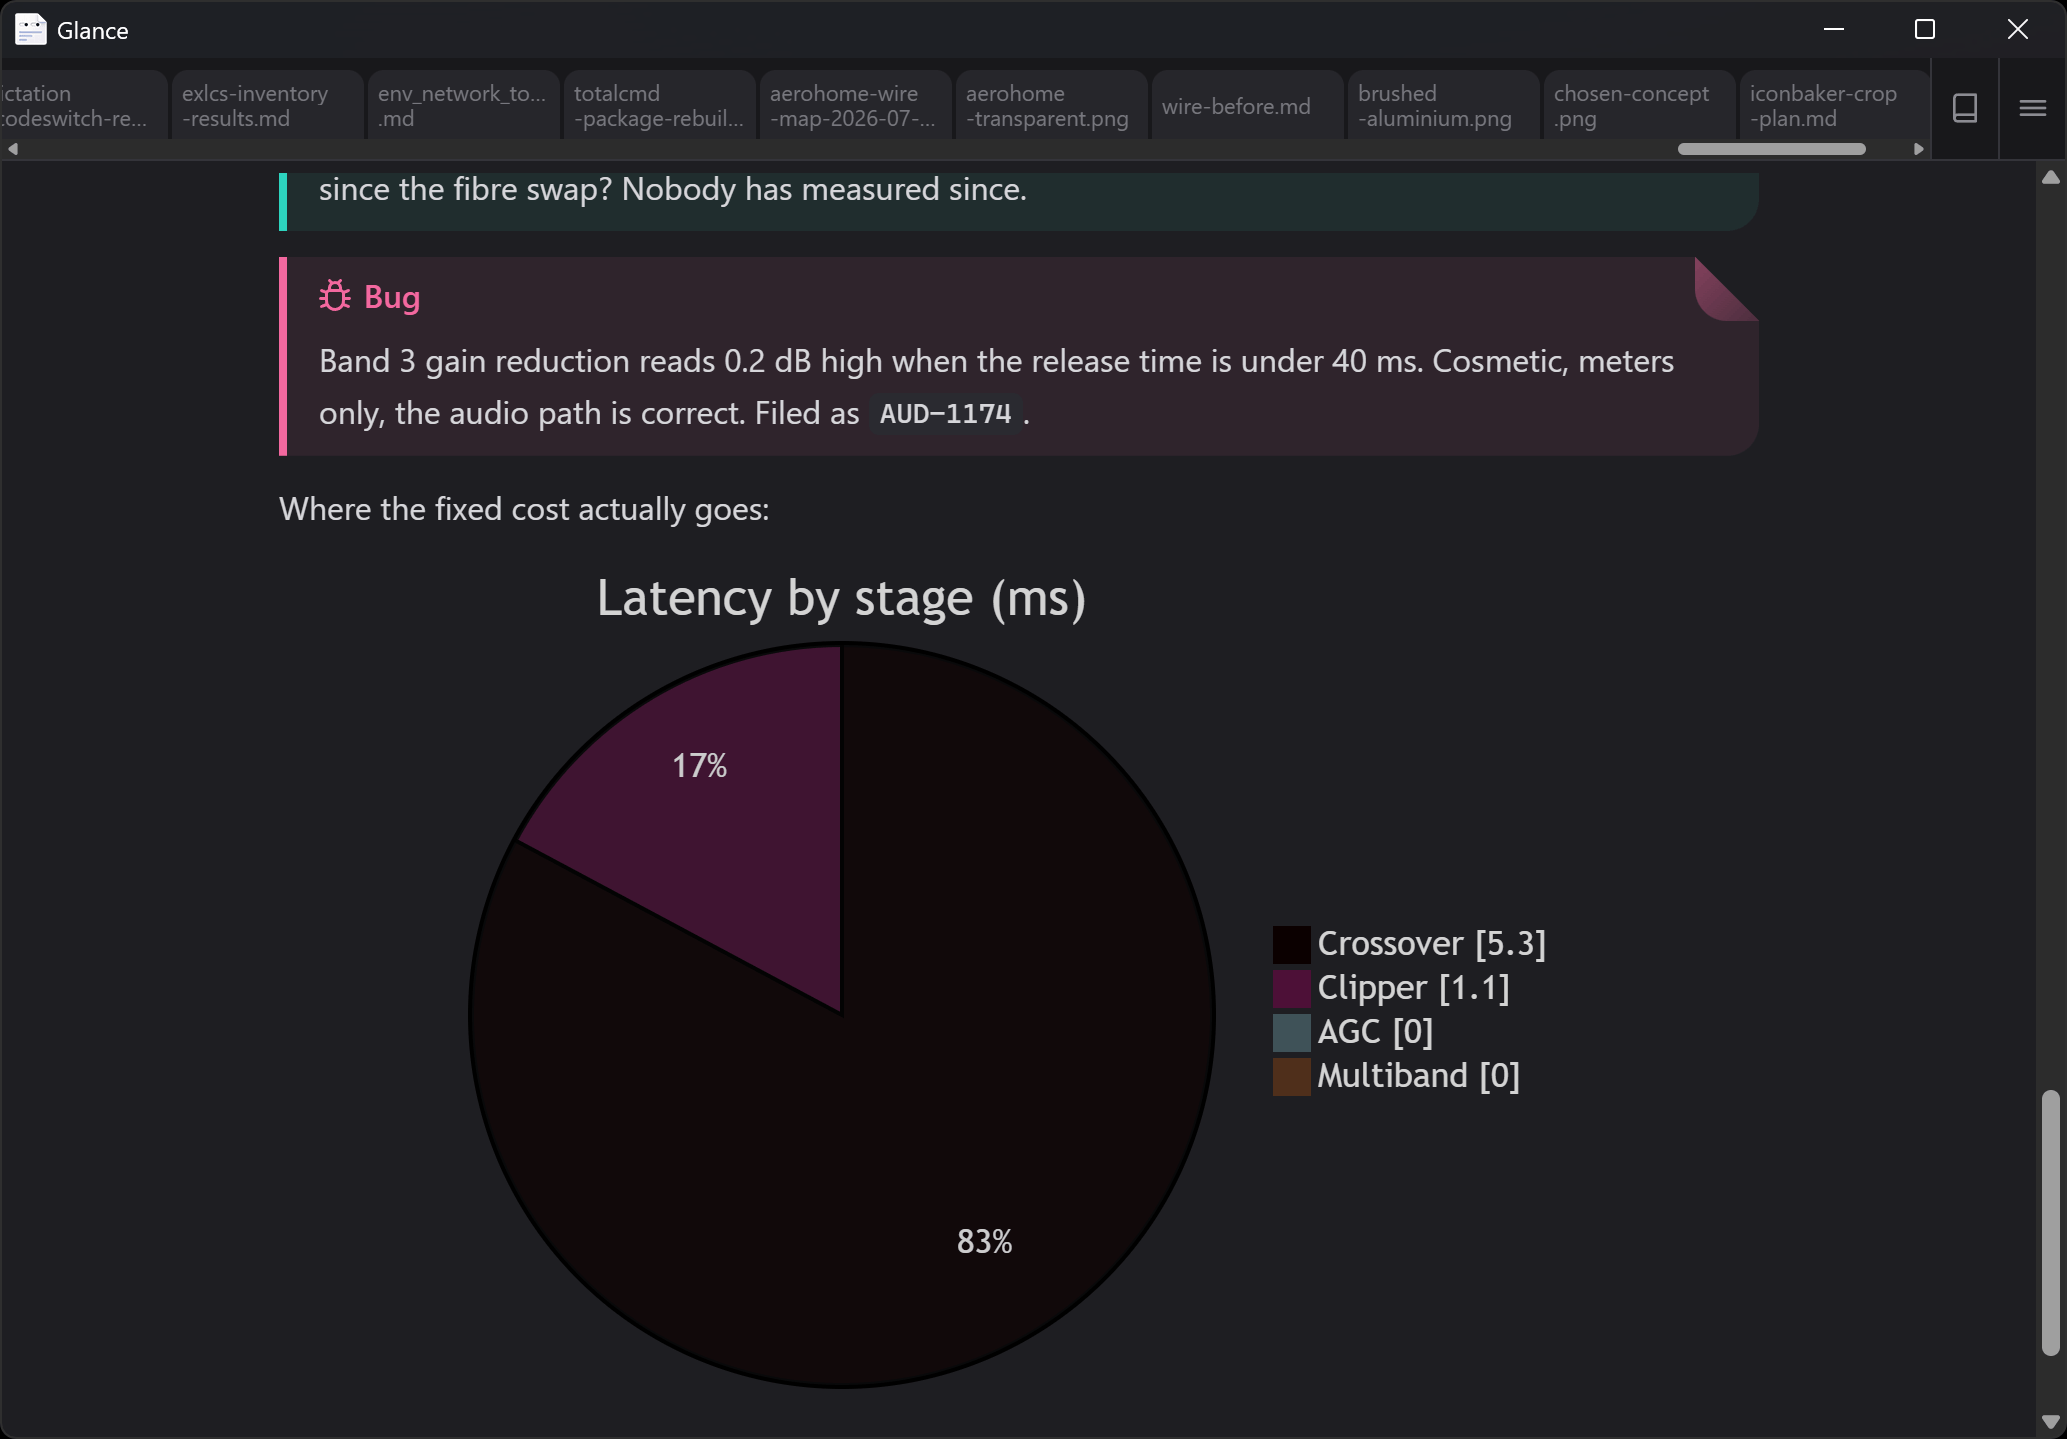
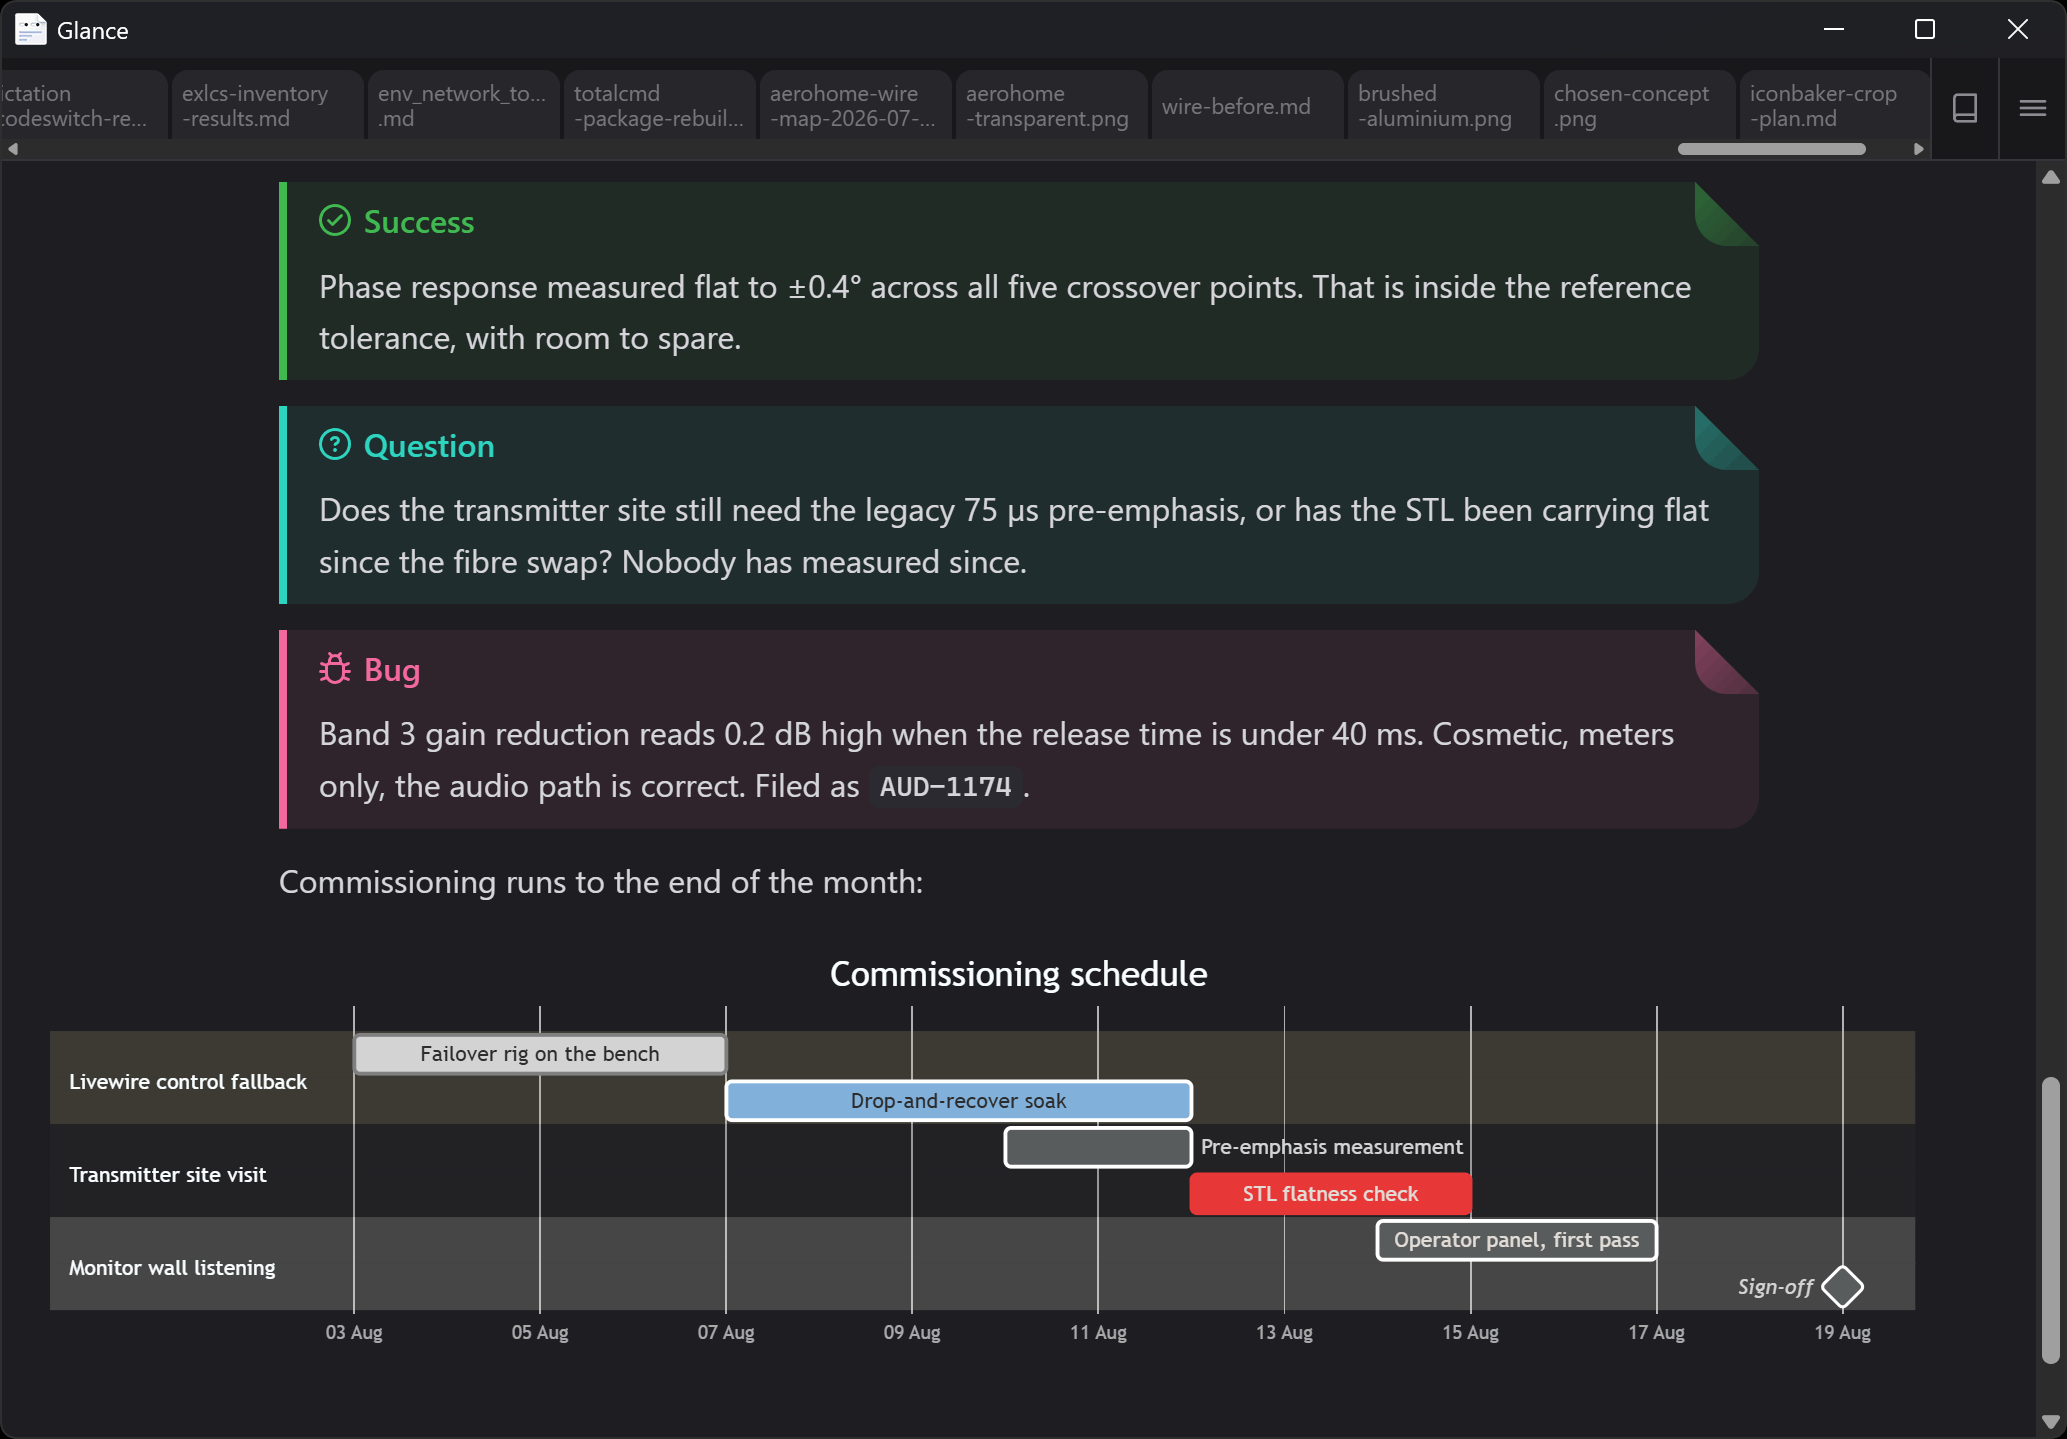
glance landing page: slide 5 is the gantt now, and its caption names the fix that makes it look right! The pie chart it replaces read badly on a dark page (83% of it was one near-black slice, and the legend printed two [0] entries), so the last gallery slide was showing the renderer off with its wea

diff --git a/index.html b/index.html
@@ -392,7 +392,7 @@
         <img class="gal-slide" src="assets/shot-2.png" alt="Glance showing a GFM table of latency figures and a KaTeX display formula" width="2067" height="1439">
         <img class="gal-slide" src="assets/shot-3.png" alt="Glance showing syntax-highlighted Rust and a task list with ticked boxes" width="2067" height="1439">
         <img class="gal-slide" src="assets/shot-4.png" alt="Glance showing Danger, Caution, Success and Question callouts, each in its own colour" width="2067" height="1439">
-        <img class="gal-slide" src="assets/shot-5.png" alt="Glance showing a Bug callout and a Mermaid pie chart of latency by stage" width="2067" height="1439">
+        <img class="gal-slide" src="assets/shot-5.png" alt="Glance showing a Bug callout and a Mermaid gantt chart of a commissioning schedule" width="2067" height="1439">
       </div>
       <div class="gal-rail" id="galRail"></div>
       <p class="cap gal-cap" id="galCap">Callouts with their own colour, icon and dog-ear &mdash; and a Mermaid flowchart, laid out live.</p>
@@ -517,7 +517,7 @@
     if (!gal || !rail || !capEl) { return; }
 
     var slides = [].slice.call(gal.querySelectorAll('.gal-slide'));
-    var caps = ["Callouts with their own colour, icon and dog-ear &mdash; and a Mermaid flowchart, laid out live.", "GFM tables with column alignment, and KaTeX math set the way a typesetter would.", "Syntax-highlighted code, and task boxes you can actually tick.", "The full admonition vocabulary &mdash; not just GitHub's five, and each with its own colour, icon and hazard edge.", "Mermaid charts too &mdash; drawn by the same renderer that checks them for collisions."];
+    var caps = ["Callouts with their own colour, icon and dog-ear &mdash; and a Mermaid flowchart, laid out live.", "GFM tables with column alignment, and KaTeX math set the way a typesetter would.", "Syntax-highlighted code, and task boxes you can actually tick.", "The full admonition vocabulary &mdash; not just GitHub's five, and each with its own colour, icon and hazard edge.", "Mermaid gantt charts too &mdash; every section name measured in the font that will really draw it, so the gutter widens to fit."];
     if (slides.length < 2) { return; }
 
     var HOLD = 4200;
